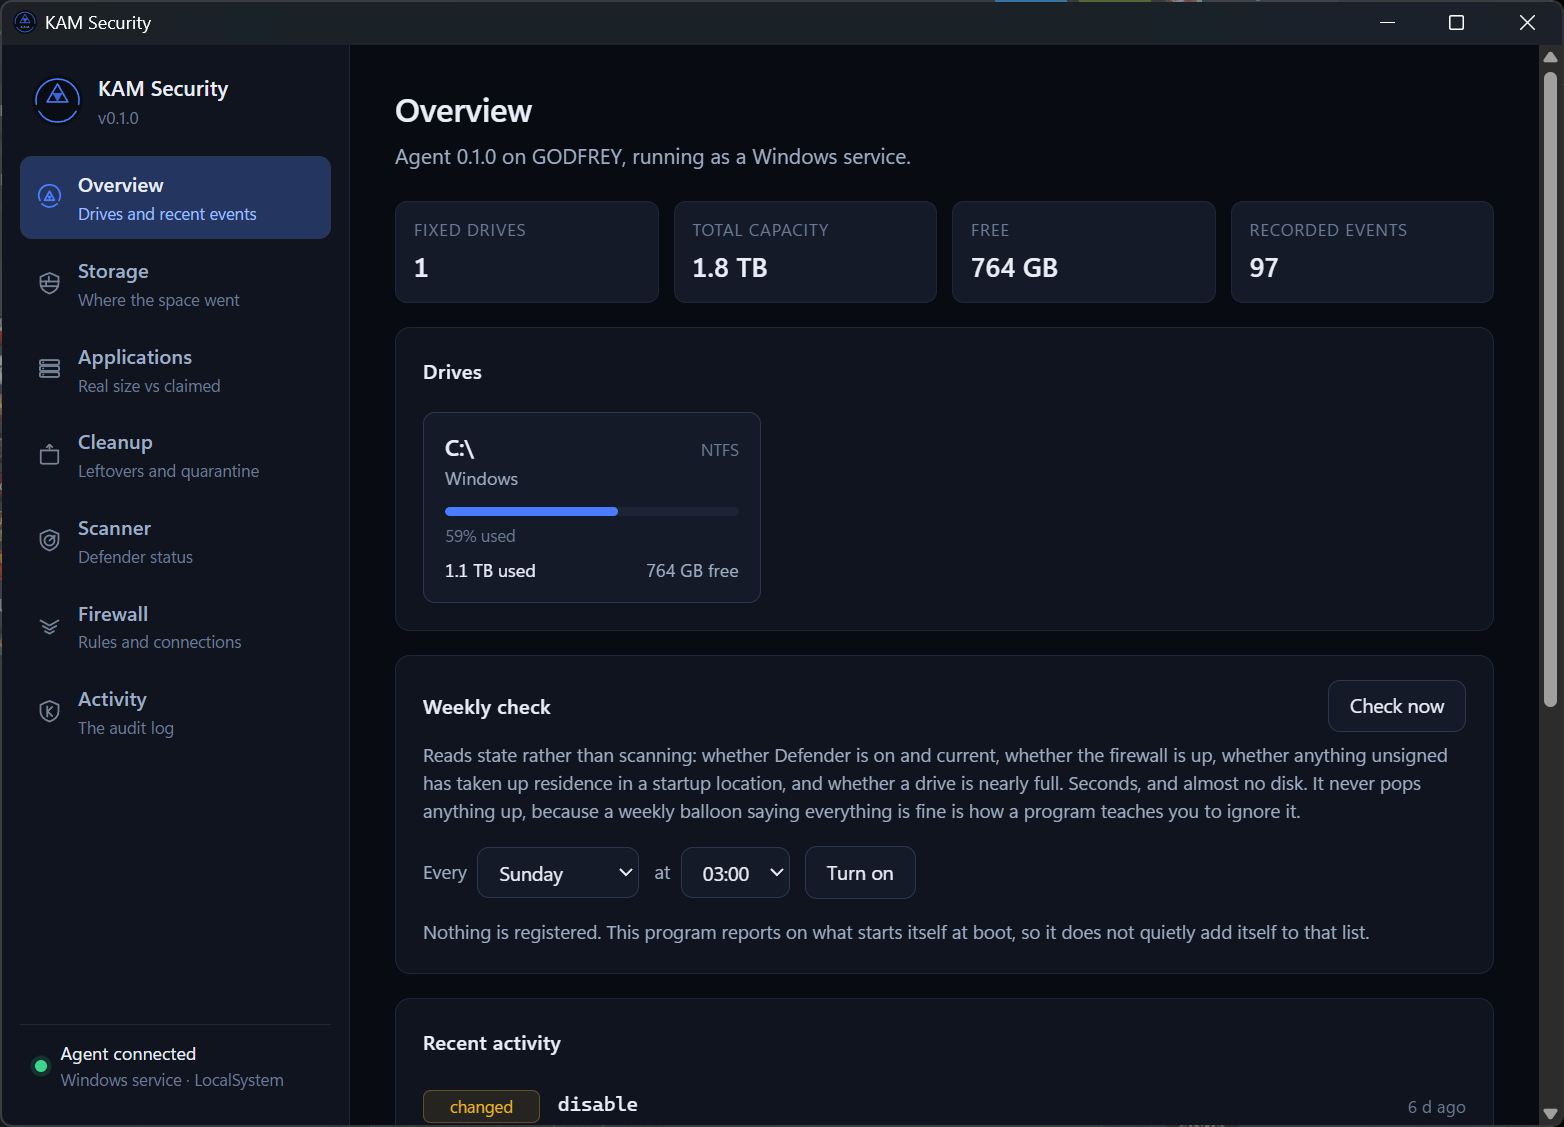
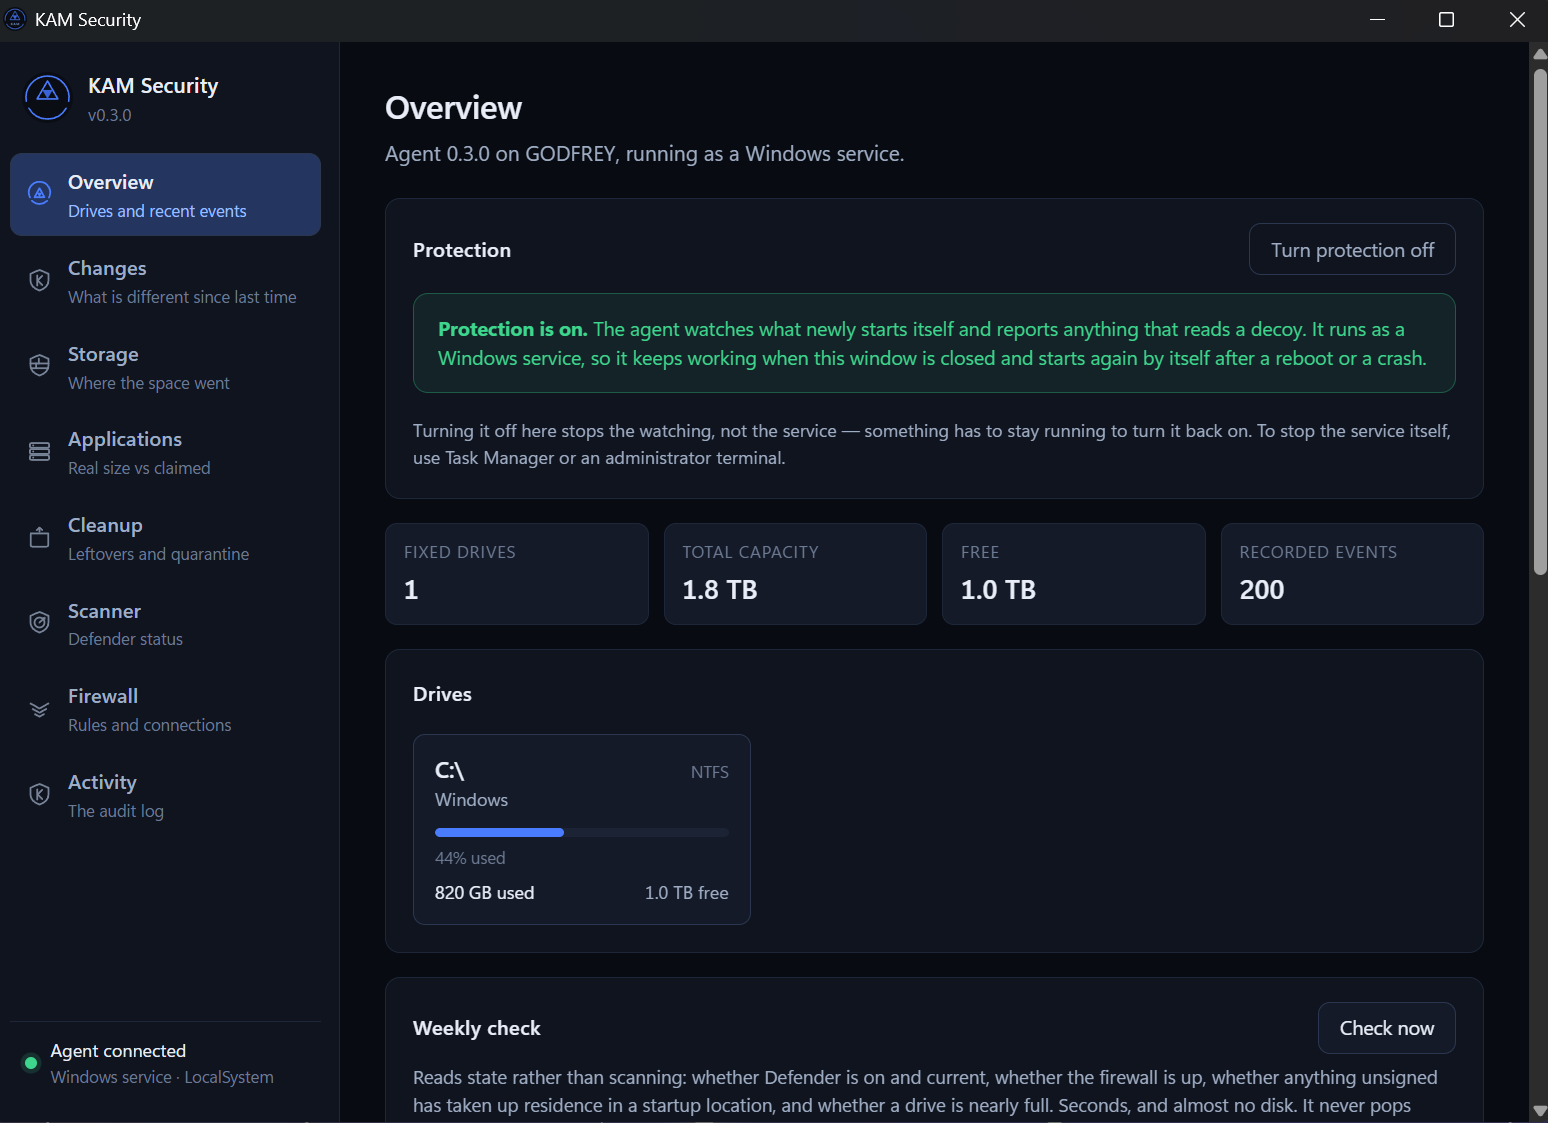
Show every page as it looks now, not as it looked at 0.1.0
The only screenshot was the first Overview, from before Protection,
Changes and the weekly schedule existed. Replace it, and add Storage,
Applications, Firewall, Scanner, Cleanup and the audit log beneath it.

diff --git a/README.md b/README.md
@@ -44,8 +44,35 @@ presenting circumstantial evidence as a verdict is the whole business model of
 the software this replaces.
 
 <p align="center">
-  <img src="docs/images/overview.png" width="900" alt="The Overview: drives, and the weekly check that is off until you turn it on">
+  <img src="docs/images/overview.png" width="900" alt="The Overview: protection on, running as a Windows service, and the drives it can see">
 </p>
+
+<table>
+  <tr>
+    <td width="50%"><img src="docs/images/storage.png" alt="Storage: 818 GB across 1.5 million files measured from the master file table in 1.6 seconds, drawn as a treemap"></td>
+    <td width="50%"><img src="docs/images/applications.png" alt="Applications: 484 GB actually used against the 55.5 GB Control Panel claims, sorted by real size"></td>
+  </tr>
+  <tr>
+    <td><b>Storage</b> — a whole drive read from the master file table in under two seconds, drawn to scale.</td>
+    <td><b>Applications</b> — what each program really occupies, against what its installer claimed.</td>
+  </tr>
+  <tr>
+    <td><img src="docs/images/firewall.png" alt="Firewall: every profile on, 690 rules, and every open connection grouped by the publisher that signed the program"></td>
+    <td><img src="docs/images/scanner.png" alt="Scanner: Defender's own protections read from Defender, with a quick or full scan started from here"></td>
+  </tr>
+  <tr>
+    <td><b>Firewall</b> — every open socket, grouped by who signed the program holding it.</td>
+    <td><b>Scanner</b> — Defender's real state, and a scan that reports rather than acts.</td>
+  </tr>
+  <tr>
+    <td><img src="docs/images/cleanup.png" alt="Cleanup: leftovers, a thirty-day quarantine, byte-for-byte duplicates, caches and loose files"></td>
+    <td><img src="docs/images/overview-activity.png" alt="The weekly check registered for Monday at 09:00, and the audit log of recent activity"></td>
+  </tr>
+  <tr>
+    <td><b>Cleanup</b> — nothing destroyed: quarantine for thirty days, or the Recycle Bin.</td>
+    <td><b>Weekly check and audit log</b> — state read in seconds, and every action written down.</td>
+  </tr>
+</table>
 
 ## Reading a terabyte in two seconds
 

diff --git a/docs/LAUNCH.md b/docs/LAUNCH.md
@@ -50,10 +50,13 @@ badge at the top of the README is a bad first impression.
 - **Branch protection** on `main`: require CI to pass. Worth it even solo — it
   stops a broken push landing on the branch strangers clone.
 
-## 6. Screenshots
+## 6. Screenshots ✅ done
 
-The README currently has none, and for a desktop application that is the single
-biggest thing missing. Capture at 1280×800 with the window maximised:
+Overview, Storage, Applications, Scanner, Firewall and Cleanup are in
+`docs/images/` and shown near the top of the README. Retake them when a page
+changes visibly. The original brief, for reference:
+
+Capture at 1280×800 with the window maximised:
 
 1. **Overview** with real drives — the first impression.
 2. **Storage** after a scan of `C:\`, treemap filled. This is the screenshot
